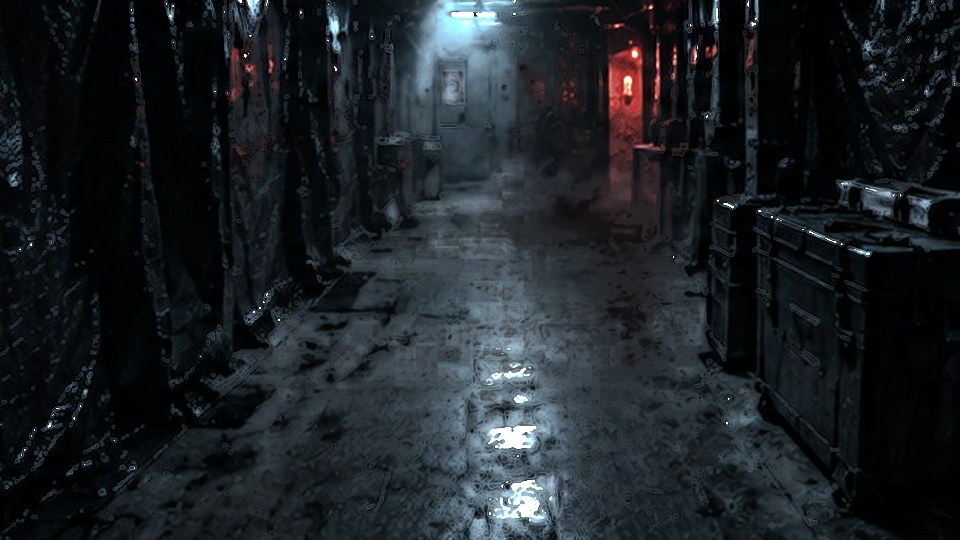
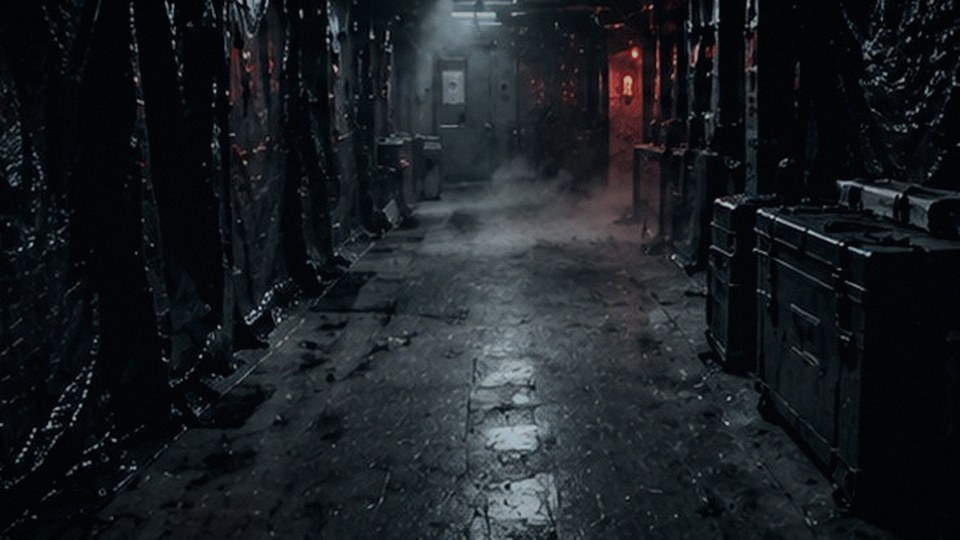
Lock in the camera look
sat 34, glow 1.3, white 150, contrast 1.1, grain 2, vignette 0.35. The
settings live as named constants at the top of tools/grade_cams.py, so
the look is one place rather than an argument list to remember, and the
stills in media/ are regenerated from it.

Claude-Session: https://claude.ai/code/session_01DVDN31GEKkWfCJx3RtTzzf

diff --git a/tools/grade_cams.py b/tools/grade_cams.py
@@ -76,6 +76,18 @@ PAIRS = [
 REF = dict(luma=32.7, p25=7.9, p50=20.1, p99=180.1, sat=53.9, rb=-15.9, gb=-7.3)
 
 T_WHITE, T_MEAN, T_P25 = 180.0, 32.7, 7.0
+
+# the look, as landed on. change these and everything follows.
+SAT      = 34.0
+GLOW     = 1.3
+HAZE     = 0.0
+EXPOSURE = 32.7
+WHITE    = 150.0
+CONTRAST = 1.1
+LIFT     = 7.0
+CAST     = 1.0
+GRAIN    = 2.0
+VIGNETTE = 0.35
 T_RB, T_GB = REF['rb'], REF['gb']
 OUT_W, OUT_H = 960, 540
 
@@ -101,9 +113,9 @@ def _expose(a, target):
     return np.clip(255. * np.power(np.clip(a, 0, 255) / 255., g), 0, 255)
 
 
-def grade_one(src, haze=0.0, sat=16.0, exposure=T_MEAN, white=T_WHITE,
-              lift=T_P25, contrast=1.0, cast=1.0, glow=1.0, grain=0.0,
-              vignette=0.0):
+def grade_one(src, haze=HAZE, sat=SAT, exposure=EXPOSURE, white=WHITE,
+              lift=LIFT, contrast=CONTRAST, cast=CAST, glow=GLOW, grain=GRAIN,
+              vignette=VIGNETTE):
     """Grade one source image. Returns a PIL.Image, writes nothing."""
     im = Image.open(os.path.join(MEDIA, src)).convert('RGB')
     w, h = im.size
@@ -171,7 +183,7 @@ def grade_one(src, haze=0.0, sat=16.0, exposure=T_MEAN, white=T_WHITE,
     return Image.fromarray(a.astype(np.uint8))
 
 
-def grade_all(haze=0.0, sat=16.0, over=None, write=False, outdir=None,
+def grade_all(haze=HAZE, sat=SAT, over=None, write=False, outdir=None,
               pairs=None, **kw):
     """Grade every still. Returns {output filename: PIL.Image}.
 
@@ -244,7 +256,7 @@ def missing_sources():
 
 
 if __name__ == '__main__':
-    haze = float(sys.argv[1]) if len(sys.argv) > 1 else 0.0
-    sat = float(sys.argv[2]) if len(sys.argv) > 2 else 16.0
+    haze = float(sys.argv[1]) if len(sys.argv) > 1 else HAZE
+    sat = float(sys.argv[2]) if len(sys.argv) > 2 else SAT
     outdir = sys.argv[3] if len(sys.argv) > 3 else None
     grade_all(haze, sat, write=(outdir is None), outdir=outdir)
